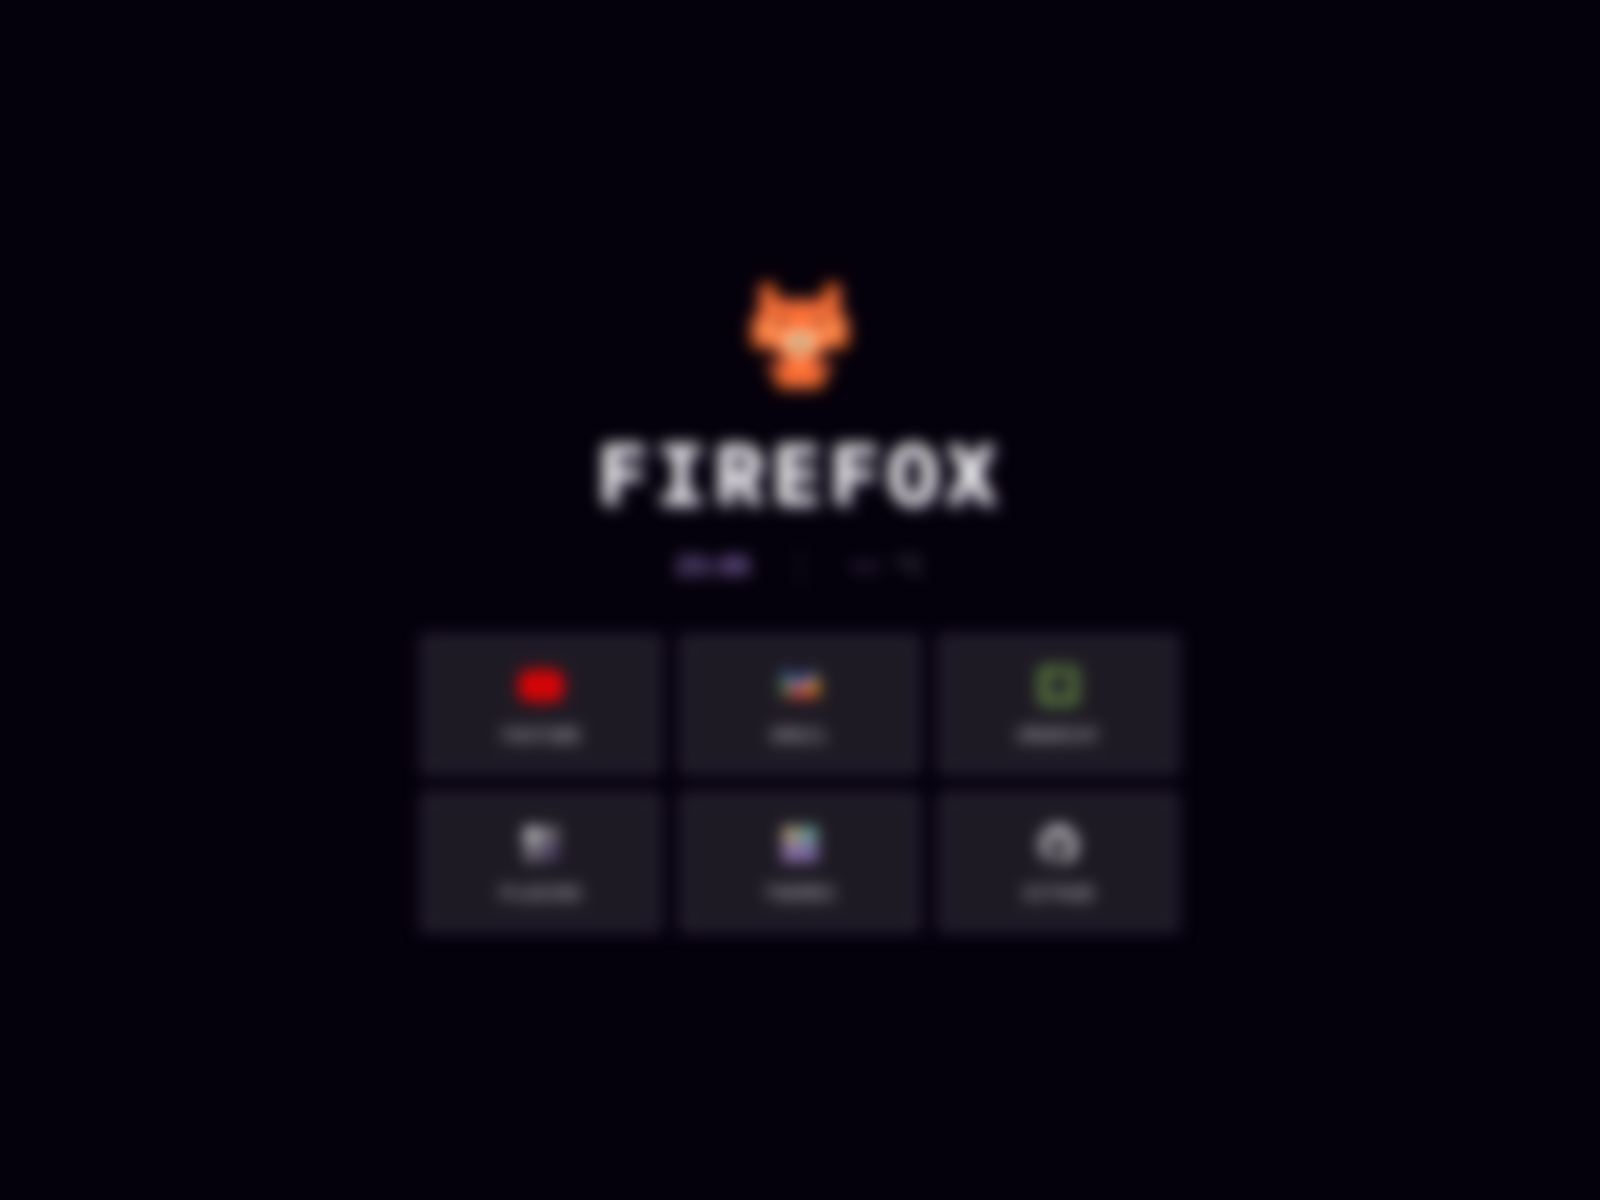
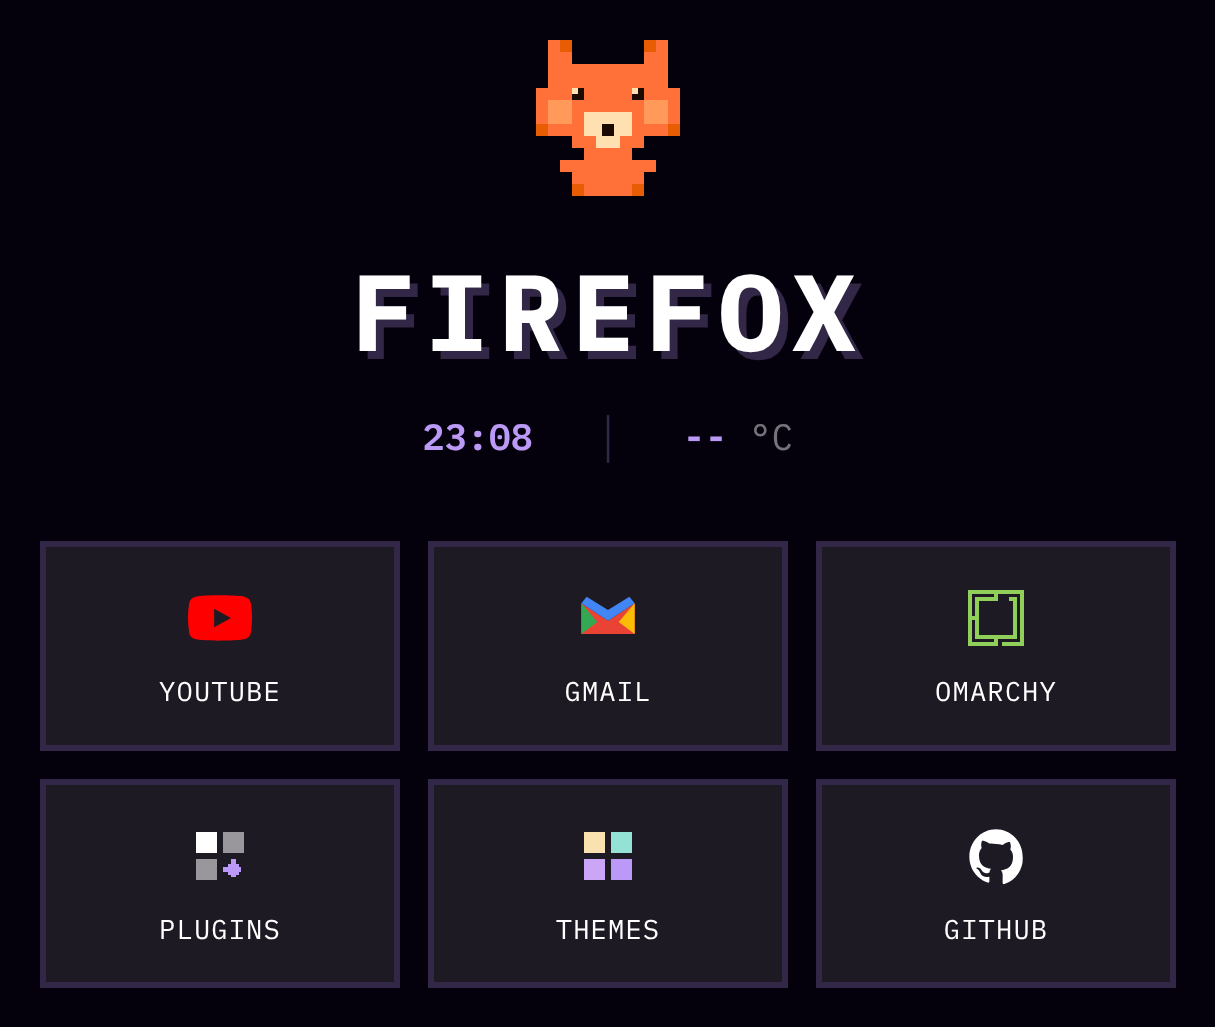
Remove entrance blur/scale that left the UI soft in Firefox
filter:blur and scale on the hero/grid promote compositor layers that stay soft after the animation.

diff --git a/index.html b/index.html
@@ -122,31 +122,30 @@
   }
 
   @media (prefers-reduced-motion: no-preference) {
+    /* No filter:blur / scale — those leave Firefox rasterizing the UI soft. */
     .hero, .grid {
       opacity: 0;
-      transform: translateY(10px) scale(0.96);
-      filter: blur(6px);
-      animation: rise-in 520ms cubic-bezier(0.16, 1, 0.3, 1) forwards;
+      transform: translateY(10px);
+      animation: rise-in 420ms cubic-bezier(0.16, 1, 0.3, 1) forwards;
     }
     .grid {
-      animation-delay: 90ms;
+      animation-delay: 70ms;
     }
     .grid .tile {
       opacity: 0;
-      transform: translateY(12px) scale(0.92);
-      animation: rise-in 480ms cubic-bezier(0.16, 1, 0.3, 1) forwards;
+      transform: translateY(10px);
+      animation: rise-in 400ms cubic-bezier(0.16, 1, 0.3, 1) forwards;
     }
-    .grid .tile:nth-child(1) { animation-delay: 140ms; }
-    .grid .tile:nth-child(2) { animation-delay: 180ms; }
-    .grid .tile:nth-child(3) { animation-delay: 220ms; }
-    .grid .tile:nth-child(4) { animation-delay: 260ms; }
-    .grid .tile:nth-child(5) { animation-delay: 300ms; }
-    .grid .tile:nth-child(6) { animation-delay: 340ms; }
+    .grid .tile:nth-child(1) { animation-delay: 110ms; }
+    .grid .tile:nth-child(2) { animation-delay: 140ms; }
+    .grid .tile:nth-child(3) { animation-delay: 170ms; }
+    .grid .tile:nth-child(4) { animation-delay: 200ms; }
+    .grid .tile:nth-child(5) { animation-delay: 230ms; }
+    .grid .tile:nth-child(6) { animation-delay: 260ms; }
     @keyframes rise-in {
       to {
         opacity: 1;
         transform: none;
-        filter: none;
       }
     }
   }
